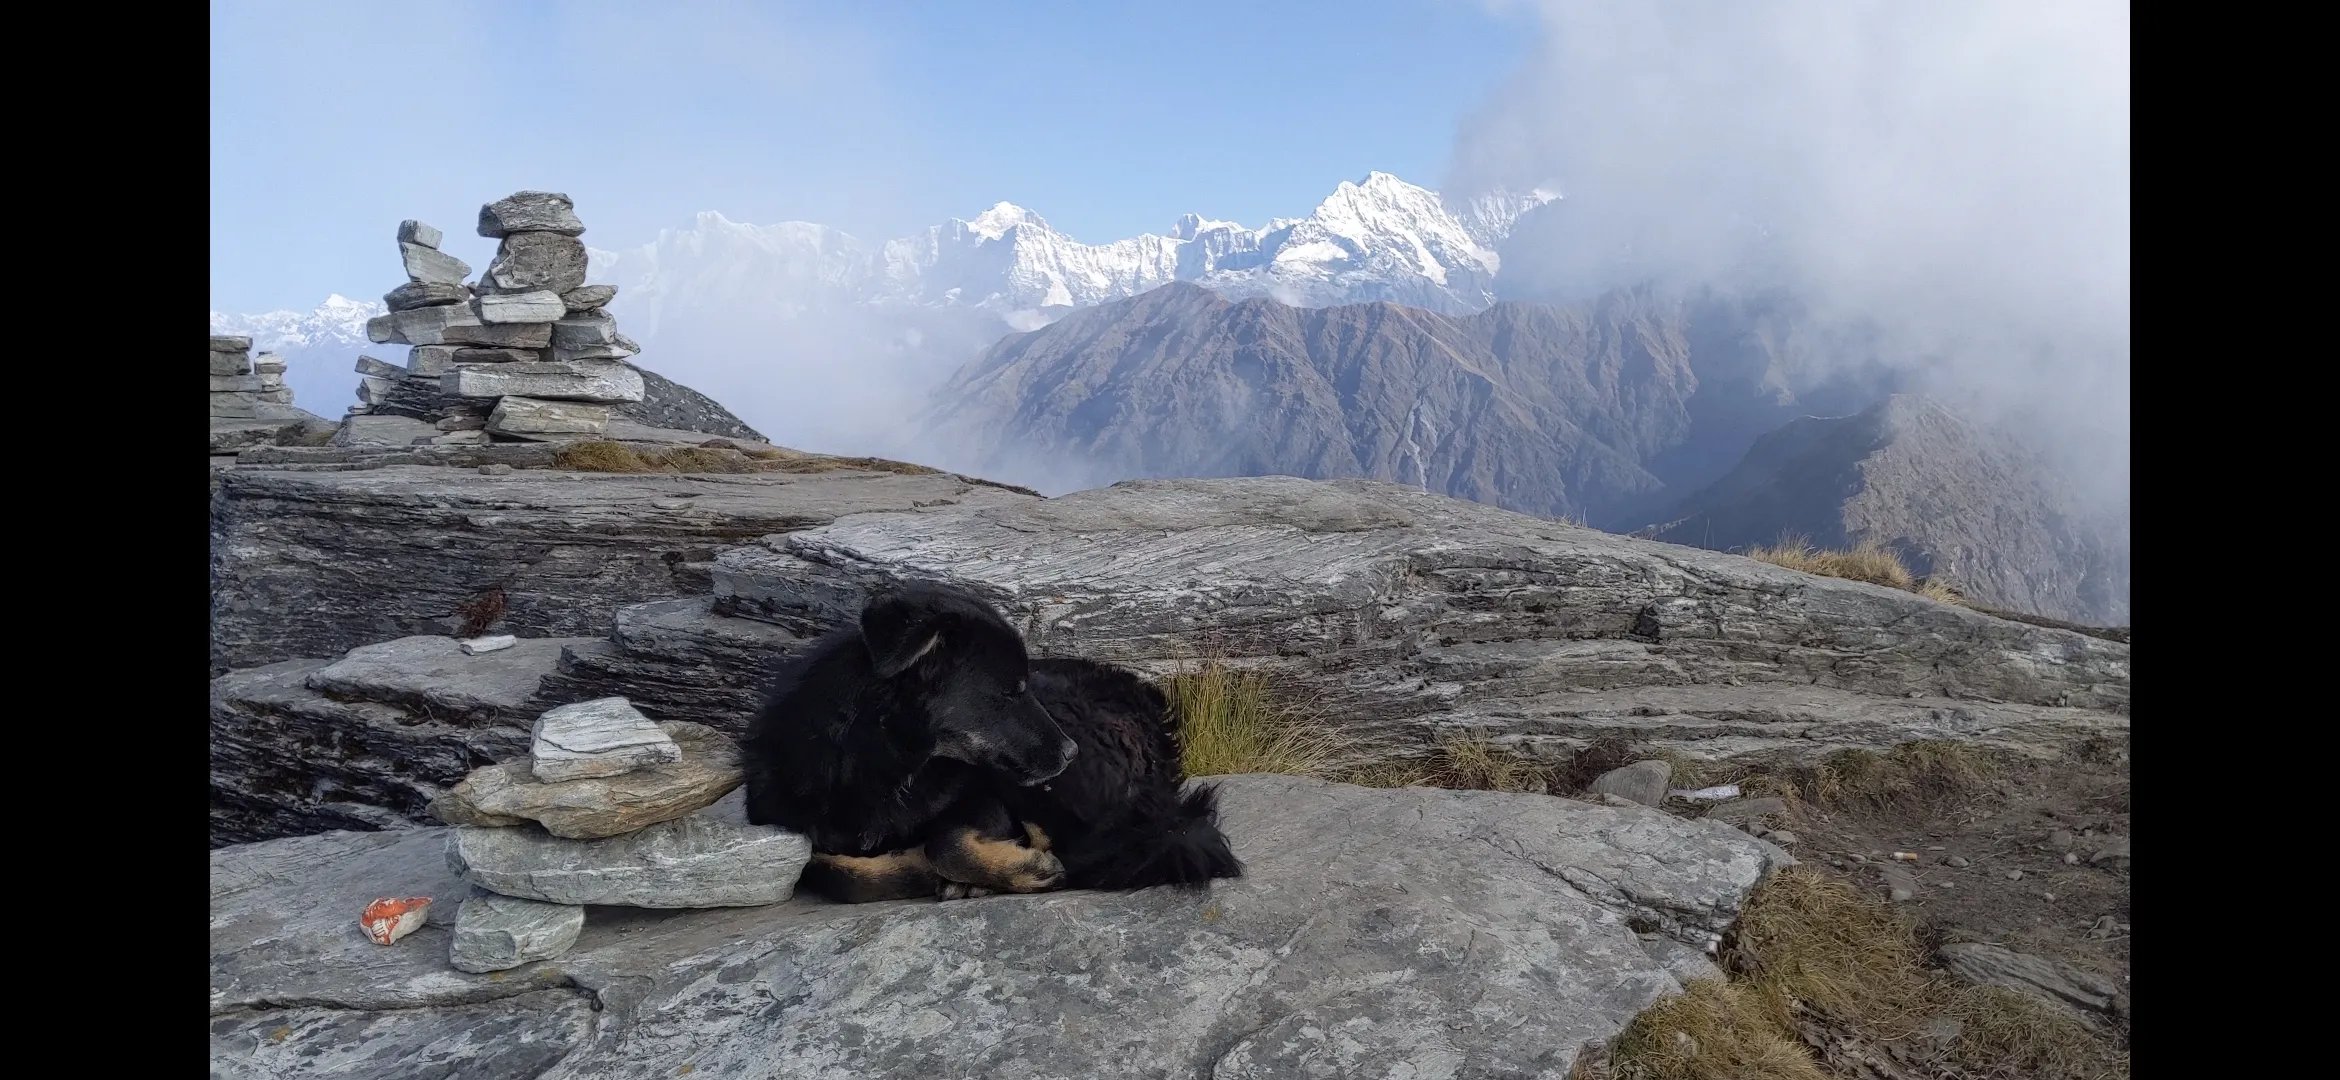
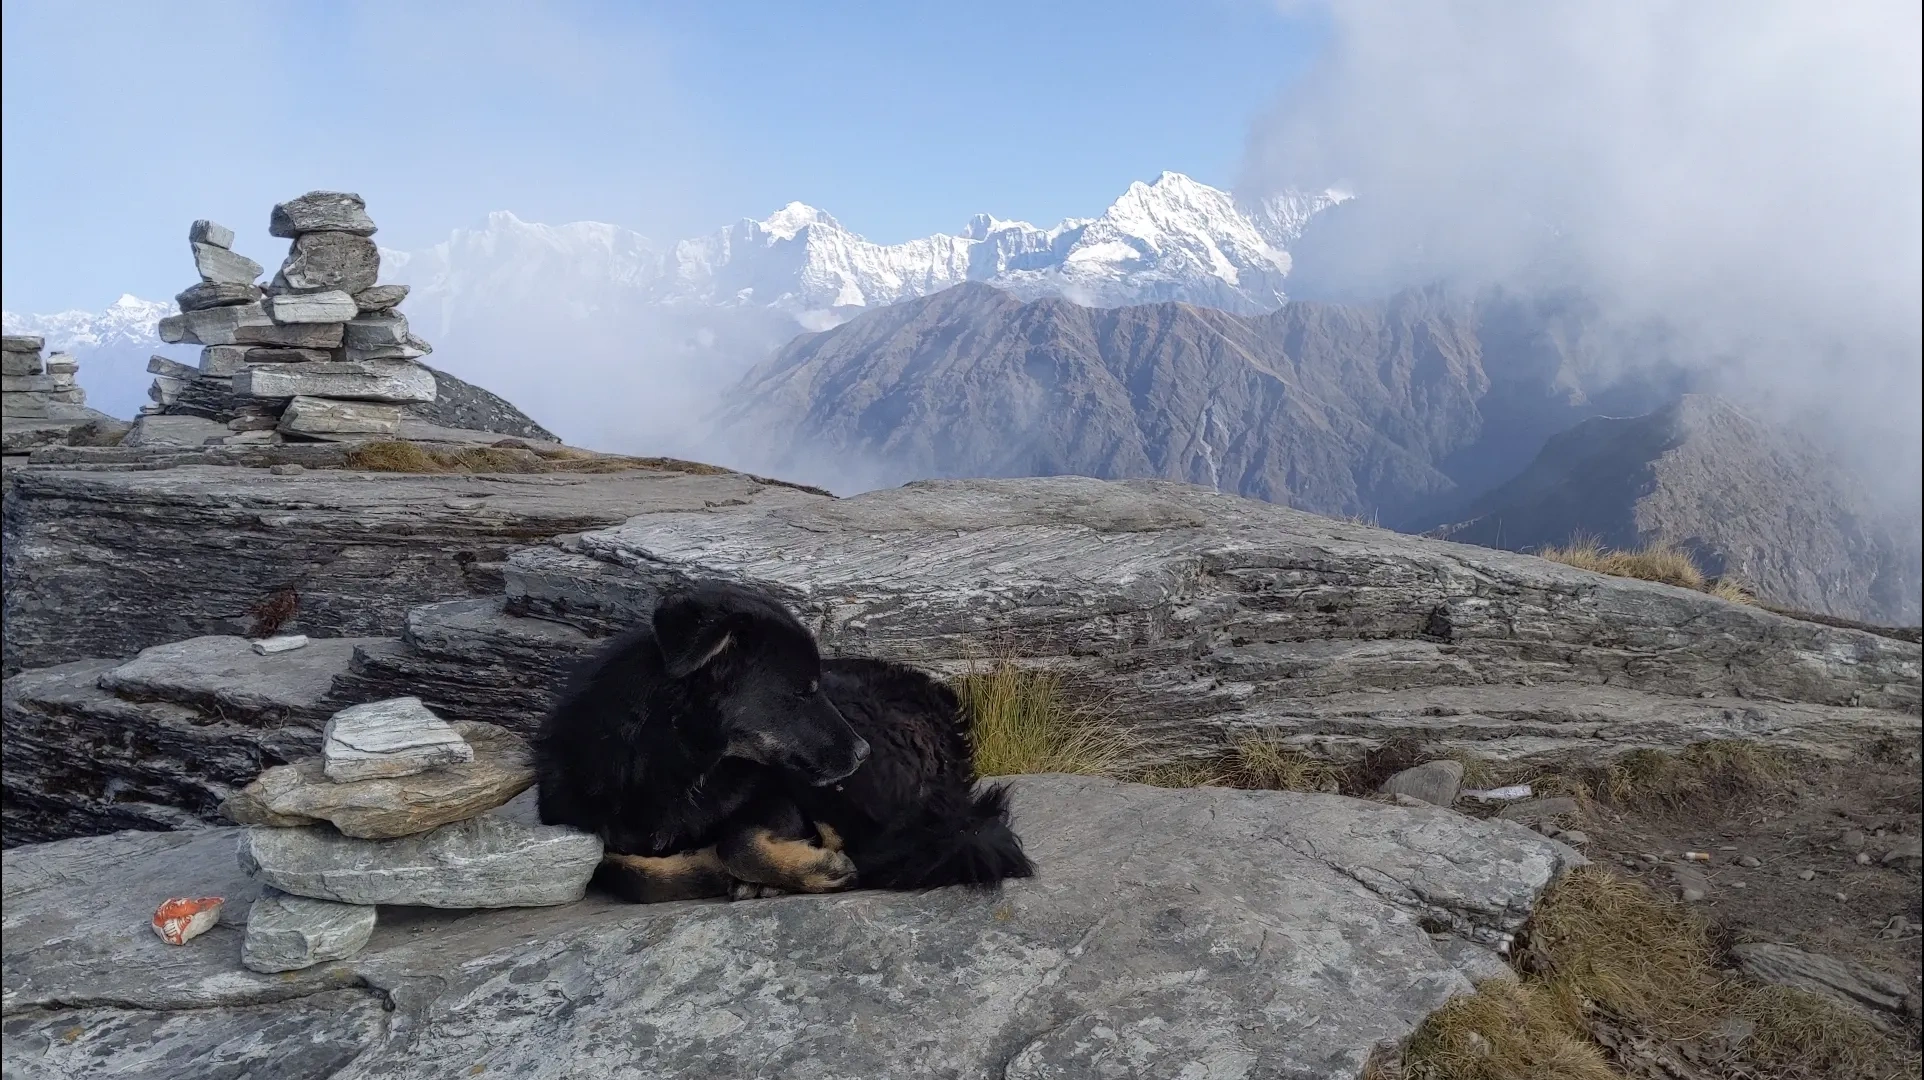
fix: fix white flash on hover, crop black borders from Chandrashila Tungnath back image, fix row height expansion animation snapping/flicker and touchscreen compatibility

diff --git a/main.js b/main.js
@@ -26,8 +26,8 @@
       if(t.slug === 'kuari-pass') a.setAttribute('data-ken-burns','');
       a.innerHTML =
         '<div class="imgwrap">'+
-          '<img class="img-back" src="'+back+'" alt="" loading="lazy" decoding="async">'+
-          '<img class="img-title" src="'+title+'" alt="'+t.name+'" loading="lazy" decoding="async">'+
+          '<img class="img-back" src="'+back+'" alt="">'+
+          '<img class="img-title" src="'+title+'" alt="'+t.name+'">'+
         '</div>'+
         '<div class="grad"></div>'+
         '<span class="price">'+t.price+'</span>'+
@@ -111,52 +111,65 @@
   }
 
   /* ---------- row height expansion (WAAPI) + scroll centering ---------- */
-  if(window.matchMedia('(hover:hover) and (pointer:fine)').matches){
-    var EASE = 'cubic-bezier(.22,1,.36,1)';
-    var scrollTimer = null;
+  var EASE = 'cubic-bezier(.22,1,.36,1)';
+  var scrollTimer = null;
 
-    document.querySelectorAll('.trek-row').forEach(function(row){
-      var heightAnim = null;
+  document.querySelectorAll('.trek-row').forEach(function(row){
+    var heightAnim = null;
 
-      /* Compute resting and expanded row heights responsively.
-         Rest matches CSS clamp(280px,32vh,380px). Expand to ~60vh for dramatic visible growth. */
-      function restH(){ return Math.min(380, window.innerHeight * 0.32); }
-      function expandH(){ return Math.min(680, window.innerHeight * 0.60); }
+    /* Compute resting and expanded row heights responsively.
+       Rest matches CSS clamp(280px,32vh,380px). Expand to ~60vh for dramatic visible growth. */
+    function restH(){ return Math.max(280, Math.min(380, window.innerHeight * 0.32)); }
+    function expandH(){ return Math.max(450, Math.min(680, window.innerHeight * 0.60)); }
 
-      row.addEventListener('mouseenter', function(){
-        if(heightAnim){ heightAnim.cancel(); heightAnim = null; }
-        var rect = row.getBoundingClientRect();
-        var targetH = expandH();
+    row.addEventListener('mouseenter', function(){
+      if (window.innerWidth <= 760) return;
 
-        /* Smoothly grow the row height so the frame visibly expands */
-        heightAnim = row.animate(
-          [{ height: rect.height + 'px' }, { height: targetH + 'px' }],
-          { duration: 900, easing: EASE, fill: 'forwards' }
-        );
+      var currentH = row.getBoundingClientRect().height;
+      if(heightAnim){ heightAnim.cancel(); heightAnim = null; }
+      var targetH = expandH();
 
-        /* Scroll-center the hovered row after expansion commits */
-        clearTimeout(scrollTimer);
-        scrollTimer = setTimeout(function(){
-          row.scrollIntoView({ behavior: 'smooth', block: 'center' });
-        }, 350);
-      });
+      /* Smoothly grow the row height so the frame visibly expands */
+      heightAnim = row.animate(
+        [{ height: currentH + 'px' }, { height: targetH + 'px' }],
+        { duration: 900, easing: EASE, fill: 'forwards' }
+      );
 
-      row.addEventListener('mouseleave', function(){
-        clearTimeout(scrollTimer);
-        if(heightAnim){ heightAnim.cancel(); heightAnim = null; }
-        var rect = row.getBoundingClientRect();
-        var targetH = restH();
-
-        heightAnim = row.animate(
-          [{ height: rect.height + 'px' }, { height: targetH + 'px' }],
-          { duration: 600, easing: EASE, fill: 'forwards' }
-        );
-        /* Clean up when collapse finishes so CSS base values take over */
-        heightAnim.onfinish = function(){
-          if(heightAnim){ heightAnim.cancel(); heightAnim = null; }
-        };
-      });
+      /* Scroll-center the hovered row after expansion commits */
+      clearTimeout(scrollTimer);
+      scrollTimer = setTimeout(function(){
+        row.scrollIntoView({ behavior: 'smooth', block: 'center' });
+      }, 350);
     });
-  }
+
+    row.addEventListener('mouseleave', function(){
+      if (window.innerWidth <= 760) return;
+
+      clearTimeout(scrollTimer);
+      var currentH = row.getBoundingClientRect().height;
+      if(heightAnim){ heightAnim.cancel(); heightAnim = null; }
+      var targetH = restH();
+
+      heightAnim = row.animate(
+        [{ height: currentH + 'px' }, { height: targetH + 'px' }],
+        { duration: 600, easing: EASE, fill: 'forwards' }
+      );
+      /* Clean up when collapse finishes so CSS base values take over */
+      heightAnim.onfinish = function(){
+        if(heightAnim){ heightAnim.cancel(); heightAnim = null; }
+      };
+    });
+  });
+
+  /* Cancel active animations when resizing to mobile to let CSS auto-height take over */
+  window.addEventListener('resize', function(){
+    if (window.innerWidth <= 760) {
+      document.querySelectorAll('.trek-row').forEach(function(row){
+        if (typeof row.getAnimations === 'function') {
+          row.getAnimations().forEach(function(anim){ anim.cancel(); });
+        }
+      });
+    }
+  }, {passive:true});
 
 })();

diff --git a/styles.css b/styles.css
@@ -105,8 +105,8 @@ em{font-style:italic;color:var(--accent-deep)}
 }
 
 
-.trek-card .imgwrap{position:absolute;inset:0}
-.trek-card img{position:absolute;inset:0;width:100%;height:100%;will-change:transform,opacity}
+.trek-card .imgwrap{position:absolute;inset:0;background:#140c02}
+.trek-card img{position:absolute;inset:0;width:100%;height:100%;object-fit:cover;will-change:transform,opacity}
 
 /* title: portrait image — visible at rest, fades as card expands */
 .trek-card .img-title{z-index:2;object-fit:cover;opacity:1;transform:scale(1);transition:opacity .6s var(--ease) .35s,transform .9s var(--ease) .1s}